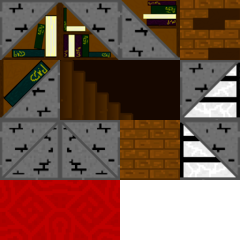
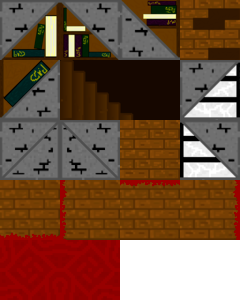
fifth floor for tower; bugfixes

diff --git a/gamedata/areadata.js b/gamedata/areadata.js
@@ -488,10 +488,10 @@ var Areas = {
 						: Player.class === "a" ? [{item: Items.bow[2], cost: 3,},]
 						: [],
 						role: "merchant",
+						shopGreeting: "Would you like to buy anything?",
 					},
 				],
 				chat: {
-					shopGreeting: "Would you like to buy anything?",
 					shopLeave: "Come back some time.",
 					inventoryFull: "Looks like your bag's too full! Empty it a bit and come back.",
 					tooPoor: "You can't afford that item. Kill some enemies and come back.",
@@ -545,6 +545,7 @@ var Areas = {
 						roleRequirement: function () {
 							return Player.quests.completedQuestArray.includes("Learning to Fish II") || Player.quests.activeQuestArray.includes("Learning to Fish II");
 						},
+						shopGreeting: "You can always buy a lure to fish up more. Heheh, that rhymed!",
 					},
 					{
 						sold: [
@@ -556,12 +557,12 @@ var Areas = {
 						roleRequirement: function () {
 							return Player.quests.completedQuestArray.includes("Learning to Fish III");
 						},
+						shopGreeting: "If you do enough fishing, you can get some rare items. Heheh.",
 					},
 				],
 				chat: {
 					notUnlockedRoles: "It's a great day to fish, heheh.",
 					chooseChat: "Caught a big one?",
-					shopGreeting: "You can always buy a lure to fish up more. Heheh, that rhymed!",
 					shopLeave: "Heheh, see you soon!",
 					inventoryFull: "You've lots of fish in your bags, but you've not any space for your rewards!",
 					tooPoor: "You can't afford that, but don't let that stop ya from fishing!",
@@ -915,7 +916,8 @@ var Areas = {
 						],
 						roleRequirement: function () {
 							return Game.event === "Christmas";
-						}
+						},
+						shopGreeting: "I have some special weapons you can purchase this Christmas.",
 					},
 				],
 				chat: {
@@ -923,7 +925,6 @@ var Areas = {
 					questComplete: "You can always check your adventure log if you need to brush up on your combat skills.",
 					inventoryFull: "Empty your bags some. You have no space for your rewards.",
 					chooseChat: `I trust your combat is going fine, ${Player.name}.`,
-					shopGreeting: "I have some special weapons you can purchase this Christmas.", // TBD move to role
 					shopLeave: "I wish you the best in your battles.",
 					tooPoor: "You can't afford that. You know what to do - Kill!",
 				},
@@ -1073,13 +1074,13 @@ var Areas = {
 						roleText: "I need some more goblin traps.",
 						roleRequirement: function () {
 							return Player.quests.activeQuestArray.includes("Strengthening Defences") || Player.quests.activeQuestArray.includes("Reinforcing Defences");
-						}
+						},
+						shopGreeting: "If you're out of traps, I'll give you some more.",
 					},
 				],
 				chat: {
 					notUnlockedRoles: "I think we have enough traps out at the moment. Come back in a bit.",
 					chooseChat: "How's it going?",
-					shopGreeting: "If you're out of traps, I'll give you some more.",
 					shopLeave: "Let's crush those goblins.",
 					inventoryFull: "Empty your inventory a bit and come back.",
 					questComplete: "I'll have more traps for you to place in a bit. Come back tomorrow.",
@@ -1153,14 +1154,14 @@ var Areas = {
 						role: "merchant",
 						roleRequirement: function () {
 							return Player.quests.completedQuestArray.includes("Retrieval of Logs");
-						}
+						},
+						shopGreeting: "I can sell you some second-hand equipment for a reduced price.",
 					},
 				],
 				chat: {
 					chooseChat: "Hello, how are you?",
 					notUnlockedRoles: "I'm not sure you have anything I can buy from you. Come back a bit later.",
 					buyerGreeting: "I'll happily buy any items that you're willing to part with.",
-					shopGreeting: "I can sell you some second-hand equipment for a reduced price.",
 					shopLeave: "Have a good day now.",
 					inventoryFull: "I'm not sure you have any space to carry that.",
 					tooPoor: "I don't think you have enough gold to buy that. Sorry.",
@@ -1202,13 +1203,13 @@ var Areas = {
 						role: "merchant",
 						roleRequirement: function () {
 							return Player.level > 2;
-						}
+						},
+						shopGreeting: "Want to buy a potion? Of course you do.",
 					},
 				],
 				chat: {
 					chooseChat: "Making potions isn't child's play.",
 					notUnlockedRoles: "I've been told you're not a high enough level to handle my potions.",
-					shopGreeting: "Want to buy a potion? Of course you do.",
 					shopLeave: "Side effects? No. Trust me.",
 					inventoryFull: "You don't want to be carrying a potion with an inventory as full as yours. Come back with some free space.",
 					tooPoor: "You're not going to be able to buy that potion without enough gold.",
@@ -1377,13 +1378,13 @@ var Areas = {
 						roleRequirement: function () {
 							return Player.quests.completedQuestArray.includes("A drink on us!");
 						},
+						shopGreeting: "Only the finest food 'n' drink here.",
 					},
 				],
 				chat: {
 					questProgress: "Girls! Make some room by the hearth, won't ya!",
 					chooseChat: "Oh ho ho! It's good to see ya again!",
 					notUnlockedRoles: "I'v never seen ya 'round 'ere before!",
-					shopGreeting: "Only the finest food 'n' drink here.",
 					shopLeave: "See ya soon!",
 					inventoryFull: "How're ya gonna hold that?!",
 					tooPoor: "Ya can't afford that.",
@@ -1587,10 +1588,10 @@ var Areas = {
 						],
 						role: "merchant",
 						roleText: "I'd like to browse your Samhain event items.",
+						shopGreeting: "I can exchange items from my realm with Samhain Marks for a limited time.",
 					},
 				],
 				chat: {
-					shopGreeting: "I can exchange items from my realm with Samhain Marks for a limited time.",
 					shopLeave: "You'll be back.",
 					inventoryFull: "You cannot hold that.",
 					tooPoor: "You cannot afford that. Kill more enemies.",
@@ -1613,6 +1614,9 @@ var Areas = {
 				disappearAfterOpened: false,
 				canBeShown: function () {
 					return (Player.quests.activeQuestArray.includes("First Class Recovery") || Player.quests.completedQuestArray.includes("First Class Recovery"));
+				},
+				canBeLooted: function () {
+					return (Player.quests.activeQuestArray.includes("First Class Recovery") && !Dom.inventory.check(6, "item", 1));
 				},
 			},
 		],
@@ -1971,7 +1975,7 @@ var Areas = {
 	nilbogTower3: {
 		
 		data: {
-			name: "Nilbog Tower",
+			name: "Nilbog Tower Library",
 			level: "Level 3 - 5",
 			territory: "Hostile territory",
 			displayOnEnter: false,
@@ -2309,6 +2313,94 @@ var Areas = {
 				y: 450,
 				template: EnemyTemplates.nilbog.goblinCrusader,
 			},
+		],
+	},
+	
+	nilbogTower5: {
+		
+		data: {
+			name: "Nilbog Tower",
+			level: "Level 3 - 5",
+			territory: "Hostile territory",
+			displayOnEnter: false,
+		},
+		
+		indoors: true,
+
+		mapData: {
+			cols: 10,
+			rows: 10,
+			tsize: 60,
+			tilesPerRow: 4,
+			solidTiles: [1, 2, 3, 5, 6, 7, 8, 9, 10, 12], // walls & downwards stairs
+			layers: [    
+				[10, 8, 12, 8, 12, 8, 12, 8, 12, 9, 8, 12, 8, 12, 8, 12, 8, 12, 8, 12, 10, 9, 10, 9, 10, 9, 10, 9, 10, 9, 11, 13, 13, 13, 13, 13, 13, 13, 13, 11, 16, 17, 18, 17, 18, 17, 18, 17, 18, 14, 16, 18, 17, 18, 17, 18, 17, 18, 17, 14, 16, 17, 18, 17, 18, 17, 18, 17, 18, 14, 16, 18, 17, 18, 17, 18, 17, 18, 17, 14, 11, 15, 15, 15, 15, 15, 15, 15, 15, 11, 11, 6, 7, 11, 11, 11, 11, 11, 11, 11],
+				[],
+			],
+		},
+		
+		images: {
+			tiles: {normal: "./assets/tilemap/nilbogTower.png"},
+			stairs: {normal: "./assets/objects/stairs.png"},
+			painting: {normal: "./assets/objects/paintingDesert.png"}, // image to be renamed
+			goblinCrusader: {normal: "./assets/enemies/goblinCrusader.png"},
+			goblinCorpse: {normal: "./assets/corpses/deadGoblin.png"},
+			melee: {normal: "./assets/projectiles/melee.png"},
+		},
+		
+		song_day: "./assets/music/Pippin-the-Hunchback-boss.mp3",
+		
+		checkpoint: false,
+		
+		areaTeleports: [
+			{
+				// teleport to floor 4
+				x: 177,
+				y: 600,
+				width: 10,
+				height: 10,
+				teleportTo: "nilbogTower4",
+				destinationX: 500,
+				destinationY: 10,
+			},
+		],
+		
+		onAreaLoad: function () {
+			// stair animations
+			if (Game.hero.y > 540) {
+				// move up stairs
+				Game.hero.direction = 2;
+				Game.hero.moveTowards = {
+					x: 15,
+					y: 520,
+					speedScalar: 0.6,
+				};
+			}
+		},
+		
+		tripwires: [
+			{
+				// going to bottom
+				x: 60,
+				y: 600,
+				width: 2,
+				height: 40,
+				collisionType: "feet",
+				onPlayerTouch: function () {
+					if (Game.hero.moveTowards === undefined) {
+						// walk down stairs
+						Game.hero.direction = 4;
+						Game.hero.moveTowards = {
+							x: 150,
+							y: 550,
+							speedScalar: 0.6,
+						};
+					}
+				}
+			},
+		],
+		
+		enemies: [
 		],
 	},
 };

diff --git a/main.js b/main.js
@@ -644,6 +644,11 @@ class Character extends Thing {
 				if (Player.inventory.weapon.chat !== undefined && Player.inventory.weapon.chat.kill !== undefined) {
 					Game.sayChat(Player.inventory.weapon.name, Player.inventory.weapon.chat.kill, false, 100, false)
 				}
+				
+				// death text
+				if (typeof this.chat.death !== "undefined") {
+					this.say(this.chat.death, true, 0, false);
+				}
 			}
 		}
 		else {
@@ -665,7 +670,7 @@ class Character extends Thing {
 				
 				this.health = this.stats.maxHealth;
 				
-				let ineffectiveAmount = Round(LevelXP[Game.hero.level] / 6); // amount of XP to be worth 50% less
+				let ineffectiveAmount = LevelXP[Game.hero.level] / 6; // amount of XP to be worth 50% less
 				let stacks = 1;
 				if (existingEffect !== undefined) {
 					ineffectiveAmount += existingEffect.info.ineffectiveAmount; // stack to an effect XP fatigue effect
@@ -674,6 +679,7 @@ class Character extends Thing {
 						ineffectiveAmount = LevelXP[Game.hero.level];
 					}
 				}
+				ineffectiveAmount = Math.round(ineffectiveAmount);
 				
 				// add stronger xp fatigue effect (or add one if the player doesn't already have one)
 				Game.hero.statusEffects.push(new statusEffect({
@@ -1452,9 +1458,13 @@ class Hero extends Attacker {
 			// check collision with loot chests
 			else if (interactionDone === 1) {
 				for (var i = 0; i < Game.chests.length; i++) {
-					if (this.isTouching(Game.chests[i]) && Game.chests[i].loot !== null && Dom.currentlyDisplayed === "") { // player is touching chest, chest can be looted, and DOM isn't occupied
-						Game.chests[i].openLoot(i);
-						interactionDone = true;
+					// player is touching chest, chest can be looted, and DOM isn't occupied
+					if (this.isTouching(Game.chests[i]) && Game.chests[i].loot !== null && Dom.currentlyDisplayed === "") {
+						// canBeLooted function
+						if (Game.chests[i].canBeLooted === undefined || Game.chests[i].canBeLooted()) {
+							Game.chests[i].openLoot(i);
+							interactionDone = true;
+						}
 					}
 					// should flash red if player can't loot it
 				}
@@ -1726,7 +1736,7 @@ class Projectile extends Thing {
 		for (var i = 0; i < to.length; i++) { // iterate through arrays of objects in to
 			for (var x = 0; x < to[i].length; x++) { // iterate through objects in to
 				Game.updateScreenPosition(this); // update projectile position
-				if (this.isTouching(to[i][x])) { // check projectile is touching character it wants to damage
+				if (this.isTouching(to[i][x]) && !to[i][x].respawning) { // check projectile is touching character it wants to damage
 					
 					if (Random(0, 99) < to[i][x].stats.dodgeChance) { // hit dodged
 						this.damageDealt.push({enemy: to[i][x], damage: "hit dodged", critical: false});
@@ -2223,14 +2233,16 @@ class LootChest extends Thing {
 		this.lootQuantities = properties.lootQuantities;
 		this.inventorySpace = properties.inventorySpace;
 		
-		this.disappearAfterOpened = properties.disappearAfterOpened; // whether it should hide straight after being looted
+		this.disappearAfterOpened = properties.disappearAfterOpened; // whether it should hide straight after being looted (hence deleting any remaining loot)
+		
+		this.canBeLooted = properties.canBeLooted; // optional function (returns false if the item is still shown but shouldn't be looted)
 	}
 	
 	openLoot (arrayIndex) {
 		Dom.choose.page(this, ["Loot chest"], [function (chest) {
 			Dom.loot.page(chest.name, chest.loot, chest.lootQuantities, chest.inventorySpace);
 			Dom.loot.currentId = "c"+arrayIndex;
-			// "c"+i is a string that allows the loot menu to be identified - c means enemy, and arrayIndex is the index of the enemy in Game.chests
+			// "c"+i is a string that allows the loot menu to be identified - c means chest, and arrayIndex is the index of the enemy in Game.chests
 			// the loot menu closes when the area changes anyway, so this will always work
 			// Dom.loot.currentId is only ever used in main, in the function Game.lootClosed() (called by index.html)
 		}], [[this]]);
@@ -3080,8 +3092,13 @@ Game.init = function () {
 	
 	// tell the player if they have unread mail
 	let unreadMail = Dom.mail.unread();
-	if (unreadMail > 0) {
+	if (unreadMail > 1) {
+		// plural
 		Dom.chat.insert("You have " + unreadMail + " new messages!", 0, false); // tbd - maybe make it more obvious that player has to check their mailbox for this?
+	}
+	else if (unreadMail > 0) {
+		// singular
+		Dom.chat.insert("You have " + unreadMail + " new message!", 0, false); // tbd - maybe make it more obvious that player has to check their mailbox for this?
 	}
 	
 	// music
@@ -3622,7 +3639,7 @@ Game.update = function (delta) {
 							
 							textArray.push(role.chooseText || "I'd like to browse your goods.");
 							functionArray.push(Dom.merchant.page);
-							parameterArray.push([npc, soldItems]);
+							parameterArray.push([npc, soldItems, role.shopGreeting]);
 						}
 						
 						// soul healers
@@ -3976,7 +3993,14 @@ Game.inventoryUpdate = function (e) {
 		Game.hero.stats = Player.stats; // inefficient (should be linked)
 		
 		// if the player is holding a weapon, set their range
-		Game.hero.stats.range = WeaponRanges[Player.inventory.weapon.type] + Game.hero.stats.rangeModifier;
+		if (Player.inventory.weapon.type !== undefined) {
+			// player has weapon equipped
+			Game.hero.stats.range = WeaponRanges[Player.inventory.weapon.type] + Game.hero.stats.rangeModifier;
+		}
+		else {
+			// no weapon equipped
+			Game.hero.stats.range = 0;
+		}
 		
 		// set player projectile
 		this.projectileUpdate();
@@ -4047,24 +4071,17 @@ Game.projectileUpdate = function () {
 	}
 }
 
-// called whenever a loot menu is closed, so that the remaining loot can be wiped
+// called whenever a loot menu is closed
 // called by index.html
-Game.lootClosed = function () {
+Game.lootClosed = function (itemsNotLooted) {
 	if (Dom.loot.currentId[0] === "e") {
 		// enemy loot menu closed
-		let arrayIndex = Dom.loot.currentId.substr(1);
-		Game.enemies[arrayIndex].loot = null;
-		Game.enemies[arrayIndex].lootQuantities = null;
 	}
 	else if (Dom.loot.currentId[0] === "c") {
 		// chest loot menu closed
 		let arrayIndex = Dom.loot.currentId.substr(1);
 		if (Game.chests[arrayIndex].disappearAfterOpened) {
 			Game.chests.splice(arrayIndex, 1);
-		}
-		else {
-			Game.chests[arrayIndex].loot = null;
-			Game.chests[arrayIndex].lootQuantities = null;
 		}
 	}
 	else if (Dom.loot.currentId[0] === "x") {
